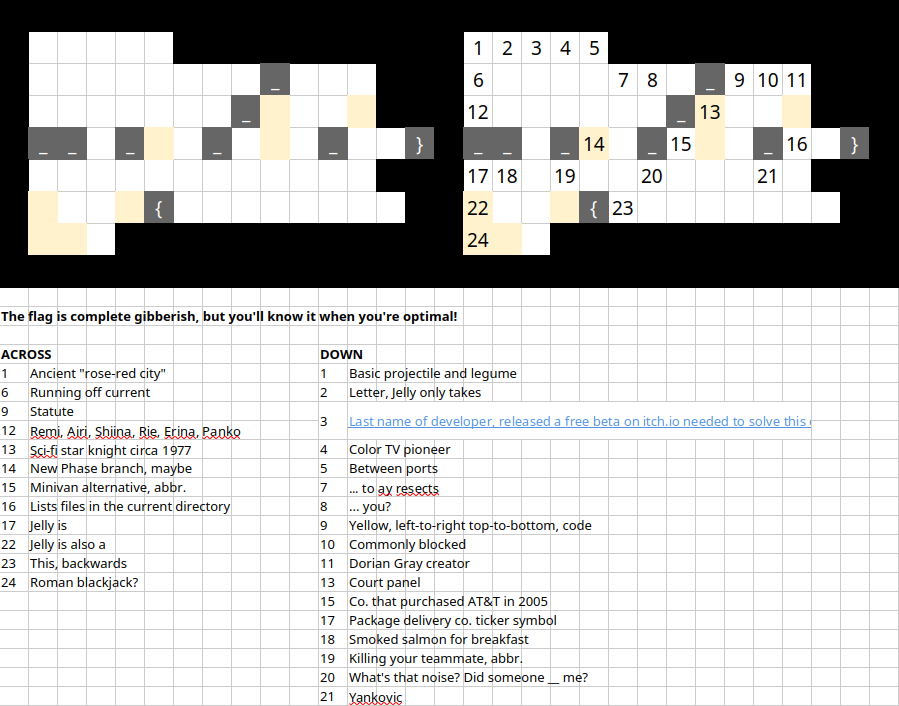
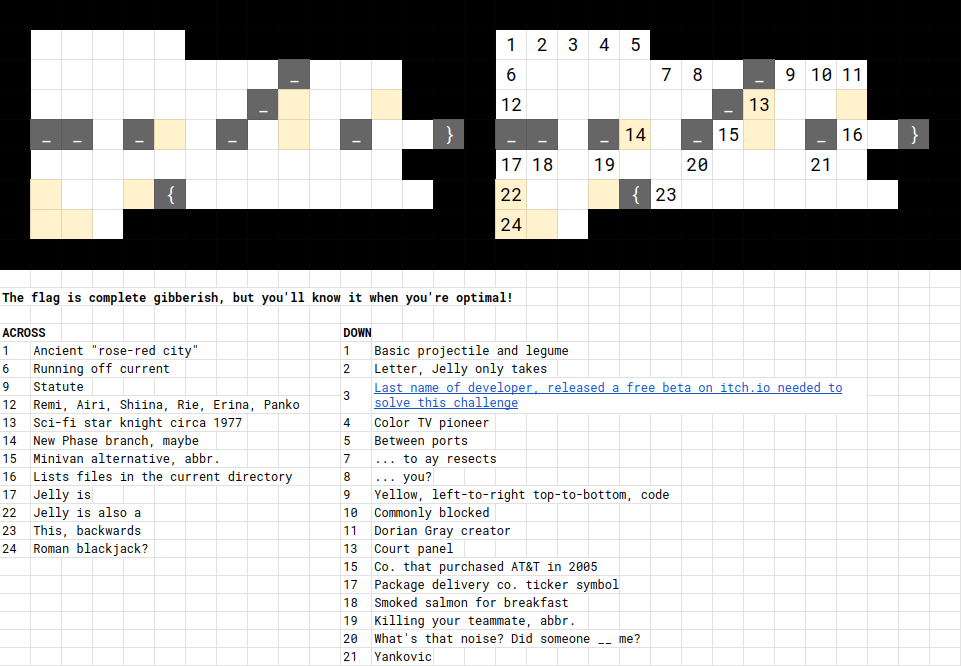
complete cipher_check writeup

diff --git a/crypto/cipher_check.md b/crypto/cipher_check.md
@@ -1,0 +1,87 @@
+# cipher_check
+
+## Difficulty
+
+Medium
+
+## Points Earned 
+
+766
+
+## Description
+
+> Let's see if you can decode some common ciphers! Decoding ciphers may be tricky, especially when you're new to CTFs, but...
+>
+> **jellyCTF{ _ _ _ _ _ _ _ _ _ _ _ _ } (12 characters)**
+> 
+> ---
+> 
+> **15 point hint:** I have the board completed. Where is the flag?
+> 
+> **20 point hint:** I do not have the board completed. May I have a list of ciphers used to complete the board?
+> 
+> Author: Meow Mix
+> 
+> ---
+> 
+> **Note:** The .xlsx file is not required to complete this challenge but it's highly recommended to upload it to Google Drive to collaborate with your team!
+
+![cipher_check crossword](./images/cipher_check.png "cipher_check crossword")
+
+## Solution
+
+I was able to solve most of these ciphers by plugging them into [CacheSleuth](https://www.cachesleuth.com/multidecoder/). There were a couple that I could not decode, which is when I turned to hint 2.
+
+### Hint 2
+
+> Here is a list of ciphers used for this challenge!
+> 
+> [...]
+>
+> - Vigenere-awawawawawa
+> - Vigenere-babababababa
+> - Vigenere-jellyhoshiumi
+
+This is the solved crossword:
+
+![cipher_check solved crossword](./images/cipher_check_crossword_solved.png "cipher_check solved crossword")
+
+I didn't really know where to go from here so I unlocked hint 1.
+
+### Hint 1
+
+> Have you noticed the crossword grid is 8x8?
+> 
+> Find the duel and follow the moves!
+
+Reading the crossword row by row gives us this:
+
+```md
+# each row
+FOLLOWMO ISTDUELX QCINDETA ILONSPEC IALLINEU PEVENTHE WONMATEI N6MOVES!
+
+# concatenated
+FOLLOWMOISTDUELXQCINDETAILONSPECIALLINEUPEVENTHEWONMATEIN6MOVES!
+
+# parsed into words
+FOLLOW MOIST DUEL XQC IN DETAIL ON SPECIAL LINE UP EVENT HE WON MATE IN 6 MOVES!
+```
+
+"MOIST DUEL XQC." This made me think of the [infamous chess match between MoistCr1tikal and xQc](https://www.chess.com/news/view/chesscom-pogchamps-xqc-moistcr1tikal), where he did indeed checkmate in 6 moves.
+
+These are the moves in order:
+
+```
+e4 e5 f3 c6 d4 d4 d4 c5 c3 f6 c6 f2
+```
+
+I noticed that these moves corresponded with positions on the crossword. This is what we get when we look up the characters:
+
+```
+e4 e5 f3 c6 d4 d4 d4 c5 c3 f6 c6 f2
+i  s  t  i  l  l  l  o  v  e  i  t
+```
+
+## Flag
+
+`jellyCTF{istillloveit}`
